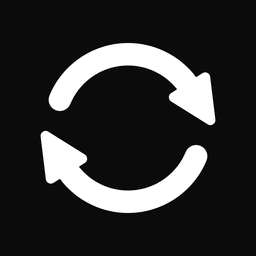
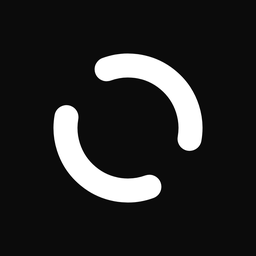
New mark: two arcs, no arrowheads
The app icon moves to the airy twin-arc glyph — two thick arcs on a
shared circle, rotated 180° apart, motion implied by the offset alone.
Favicon and the inline brand mark follow it; the old mark's arrowheads
are gone.

Changed region(s): [[0.1562, 0.1562, 0.8438, 0.8438]]

diff --git a/index.html b/index.html
@@ -50,11 +50,9 @@ h1{font-size:clamp(44px,9vw,72px);font-weight:800;letter-spacing:-.03em;line-hei
 <div class="wrap">
   <div class="brand">
     <svg width="18" height="18" viewBox="0 0 1024 1024" role="img" aria-label="Auto Sync">
-      <g id="m">
-        <path d="M 239.456 399.108 A 295 295 0 0 1 760.8 353.497" fill="none" stroke="#0a0a0a" stroke-width="90" stroke-linecap="round"/>
-        <path d="M 861.561 478.068 L 840.619 306.936 A 20 20 0 0 0 810.021 292.497 L 684.714 372.327 A 20 20 0 0 0 684.869 406.16 L 831.117 497.463 A 20 20 0 0 0 861.561 478.068 Z" fill="#0a0a0a"/>
-      </g>
-      <use href="#m" transform="rotate(180 512 512)"/>
+      <defs><path id="m" d="M 597.51 746.92 A 250 250 0 0 1 265.80 468.59"/></defs>
+      <use href="#m" fill="none" stroke="#0a0a0a" stroke-width="96" stroke-linecap="round" stroke-linejoin="round"/>
+      <use href="#m" transform="rotate(180 512 512)" fill="none" stroke="#0a0a0a" stroke-width="96" stroke-linecap="round" stroke-linejoin="round"/>
     </svg>
     <span>AUTO SYNC</span>
   </div>
